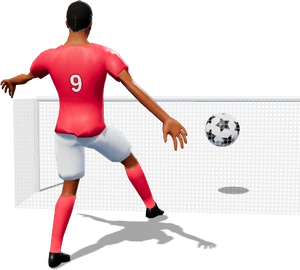
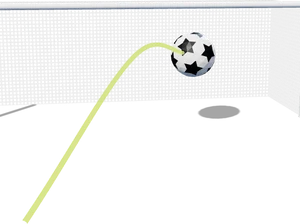
Плашки «Играть» без игроков: мини-поле с фишками (3 на 3, 4 на 4), ворота с мячом (Моменты), карточки (Драфт), тактическая доска (Менеджер), фишки (Тренировки)
Claude-Session: https://claude.ai/code/session_01VpcaxWoBDaJdgiPA1Q4kL3

Changed region(s): [[0.0, 0.0, 1.0, 1.0], [0.72, 0.6875, 0.84, 0.7188], [0.99, 0.4688, 1.0, 0.5312]]

diff --git a/tools/art/modes.html b/tools/art/modes.html
@@ -34,7 +34,9 @@ const KIT = {
   blue: { pattern: 'plain', c1: '#1f5bd8', c2: '#ffffff', shorts: '#ffffff', socks: '#1f5bd8' },
   navy: { pattern: 'sleeves', c1: '#11204f', c2: '#c6ff3d', shorts: '#11204f', socks: '#c6ff3d' },
 };
+let NOMEN = false; // плашки без игроков
 function man(kit, look, pose, x, z, ry, s = 1) {
+  if (NOMEN) return new THREE.Group();
   const p = PlayerKit.make(G, PlayerKit.kit(Object.assign({}, KIT[kit], look)), pose);
   p.scale.multiplyScalar(s); p.position.set(x, 0, z); p.rotation.y = ry;
   p.traverse((m) => { if (m.isMesh) { m.castShadow = true; m.frustumCulled = false; } });
@@ -97,6 +99,36 @@ const SCENES = {
     return { pos: [0.2, 2.0, 5.9], look: [0.1, 0.75, 0], fov: 34 }; },
 };
 // tall — высокая плашка «Играть»: шире угол, все фигуры целиком
+// плашки «Играть» без игроков (3.11): только предметы — мини-поле с фишками, ворота с мячом, доска, карточки, фишки
+function miniPitch(n) { const c = document.createElement('canvas'); c.width = 420; c.height = 600; const g = c.getContext('2d');
+  for (let i = 0; i < 8; i++) { g.fillStyle = i % 2 ? '#2f9a52' : '#36a85b'; g.fillRect(0, i * 75, 420, 75); }
+  g.strokeStyle = '#eafff1'; g.lineWidth = 8; g.strokeRect(16, 16, 388, 568); g.beginPath(); g.moveTo(16, 300); g.lineTo(404, 300); g.stroke(); g.beginPath(); g.arc(210, 300, 54, 0, 7); g.stroke();
+  g.strokeRect(120, 16, 180, 70); g.strokeRect(120, 514, 180, 70);
+  const t = new THREE.CanvasTexture(c); t.encoding = THREE.sRGBEncoding;
+  const m = new THREE.Mesh(new THREE.BoxGeometry(2.1, 0.08, 3.0), [std('#1d6b38'), std('#1d6b38'), new THREE.MeshStandardMaterial({ map: t, roughness: 0.6 }), std('#1d6b38'), std('#1d6b38'), std('#1d6b38')]);
+  m.receiveShadow = true; m.castShadow = true; const grp = new THREE.Group(); grp.add(m);
+  const tok = (x, z, col) => { const k = new THREE.Mesh(new THREE.CylinderGeometry(0.15, 0.15, 0.14, 32), std(col, { metalness: 0.3, roughness: 0.25 })); k.position.set(x, 0.11, z); k.castShadow = true; grp.add(k);
+    const r = new THREE.Mesh(new THREE.TorusGeometry(0.15, 0.025, 8, 32), std('#ffffff')); r.rotation.x = Math.PI / 2; r.position.set(x, 0.18, z); grp.add(r); };
+  const us = n === 3 ? [[0, 1.25], [-0.5, 0.45], [0.45, -0.2]] : [[0, 1.25], [-0.55, 0.6], [0.55, 0.6], [0, -0.15]];
+  const them = n === 3 ? [[0, -1.25], [0.5, -0.5], [-0.4, 0.1]] : [[0, -1.25], [-0.55, -0.6], [0.55, -0.6], [0.1, 0.2]];
+  us.forEach(([x, z]) => tok(x, z, '#2b6cff')); them.forEach(([x, z]) => tok(x, z, '#e3243f'));
+  const b = ballM(0.13); b.position.set(0.25, 0.2, -0.05); grp.add(b); return grp; }
+const PLATE = {
+  three(s) { const p = miniPitch(3); p.rotation.set(0.15, 0.35, 0); s.add(p); return { pos: [0, 3.4, 3.6], look: [0, 0, 0.1], fov: 40 }; },
+  eleven(s) { const p = miniPitch(4); p.rotation.set(0.15, -0.35, 0); s.add(p); return { pos: [0, 3.4, 3.6], look: [0, 0, 0.1], fov: 40 }; },
+  mom(s) { const gl = goalM(0.5); gl.position.set(0, 0, -0.8); gl.rotation.y = Math.PI / 2; s.add(gl);
+    const b = ballM(0.22); b.position.set(0.55, 0.75, -0.55); b.rotation.set(0.4, 0.8, 0.2); s.add(b);
+    const pts = [new THREE.Vector3(-0.9, 0.15, 1.6), new THREE.Vector3(-0.1, 0.95, 0.5), new THREE.Vector3(0.45, 0.78, -0.45)];
+    s.add(new THREE.Mesh(new THREE.TubeGeometry(new THREE.CatmullRomCurve3(pts), 60, 0.018, 8), new THREE.MeshBasicMaterial({ color: L('#c6ff3d'), transparent: true, opacity: 0.85 })));
+    return { pos: [-0.6, 1.5, 4.4], look: [0.1, 0.7, -0.4], fov: 42 }; },
+  mgr(s) { const v = SCENES.mgr(s); s.children.filter((o) => o.type === 'Group' && o.children.some((c) => c.isSkinnedMesh)).forEach((o) => s.remove(o)); return { pos: [0.35, 1.2, 3.6], look: [0.35, 1.1, -0.3], fov: 40 }; },
+  draft(s) { const v = SCENES.draft(s); return { pos: [0, 1.65, 5.2], look: [0, 1.55, -0.6], fov: 34 }; },
+  train(s) { [[-0.6, -0.5], [0.1, -0.1], [-0.3, 0.5], [0.45, 0.85]].forEach(([x, z]) => s.add(cone(x, z, 0.9))); const b = ballM(0.28); b.position.set(0.5, 0.28, 0.2); s.add(b);
+    const pts = []; for (let i = 0; i <= 40; i++) { const t = i / 40, z = -0.9 + t * 2.2; pts.push(new THREE.Vector3(Math.sin(t * Math.PI * 2.2) * 0.45, 0.03, z)); }
+    s.add(new THREE.Mesh(new THREE.TubeGeometry(new THREE.CatmullRomCurve3(pts), 100, 0.035, 8), new THREE.MeshBasicMaterial({ color: L('#ffd23c') })));
+    return { pos: [0, 2.6, 3.4], look: [0, 0.2, 0], fov: 40 }; },
+};
+window.renderPlate = async (id, w, h) => { await ready; const s = rig(w, h); NOMEN = true; let v; try { v = PLATE[id](s); } finally { NOMEN = false; } const cam = new THREE.PerspectiveCamera(v.fov, w / h, 0.1, 100); cam.position.set(...v.pos); cam.lookAt(...v.look); R.render(s, cam); return R.domElement.toDataURL('image/png'); };
 window.renderMode = async (id, w, h, tall) => { await ready; const s = rig(w, h), v = SCENES[id](s); const cam = new THREE.PerspectiveCamera(v.fov * (tall ? 1.45 : 1), w / h, 0.1, 100); cam.position.set(...v.pos); cam.lookAt(...v.look); R.render(s, cam); return R.domElement.toDataURL('image/png'); };
 // ?view=mom — показать сцену в окне (для подбора кадра)
 const VIEW = new URLSearchParams(location.search).get('view');

diff --git a/js/fcm.js b/js/fcm.js
@@ -134,20 +134,20 @@ const FCM = (() => {
   // «Играть» как в FC Mobile (3.11): слева крупно — испытание «Джексона» (карьера), справа лента больших плашек режимов;
   // плашка футбола запускает режим, плашка разделов (Угадай, Викторины…) открывает его игры. Назад — снова сюда.
   const PLATES = [
-    { go: 'data-fm-mode="3"', t: 'Матч 3 на 3', d: 'Против ботов · 2 минуты', img: 'img/fcm/plate-three.webp?v=1', c: '#2b6cff', z: 1.2 },
-    { go: 'data-fm-mode="mom"', t: 'Моменты', d: 'Забей в коротких атаках', img: 'img/fcm/plate-mom.webp?v=1', c: '#c6ff3d', z: 1.35 },
-    { go: 'data-fm-mode="4"', t: 'Матч 4 на 4', d: 'Трое в поле и вратарь', img: 'img/fcm/plate-eleven.webp?v=1', c: '#19d3b0' },
-    { go: 'data-act="xdraft"', t: 'Драфт', d: 'Собери состав и пройди турнир', img: 'img/fcm/plate-draft.webp?v=1', c: '#b98bff' },
-    { go: 'data-fm-mode="mgr"', t: 'Менеджер', d: 'Твой состав играет сам', img: 'img/fcm/plate-mgr.webp?v=1', c: '#ffd23c', z: 1.05 },
+    { go: 'data-fm-mode="3"', t: 'Матч 3 на 3', d: 'Против ботов · 2 минуты', img: 'img/fcm/plate-three.webp?v=2', c: '#2b6cff' },
+    { go: 'data-fm-mode="mom"', t: 'Моменты', d: 'Забей в коротких атаках', img: 'img/fcm/plate-mom.webp?v=2', c: '#c6ff3d' },
+    { go: 'data-fm-mode="4"', t: 'Матч 4 на 4', d: 'Трое в поле и вратарь', img: 'img/fcm/plate-eleven.webp?v=2', c: '#19d3b0' },
+    { go: 'data-act="xdraft"', t: 'Драфт', d: 'Собери состав и пройди турнир', img: 'img/fcm/plate-draft.webp?v=2', c: '#b98bff' },
+    { go: 'data-fm-mode="mgr"', t: 'Менеджер', d: 'Твой состав играет сам', img: 'img/fcm/plate-mgr.webp?v=2', c: '#ffd23c' },
     { go: 'data-fm-sub="modes:guess"', t: 'Угадай', d: 'Wordle, клубы, карьеры', cat: 'guess', c: '#56d4ff' },
     { go: 'data-fm-sub="modes:quiz"', t: 'Викторины', d: 'Дороже, трансферы, счёт', cat: 'quiz', c: '#ff9f43' },
     { go: 'data-fm-sub="modes:cards"', t: 'Карточные', d: 'Козыри, аукцион, ИПК', cat: 'cards', c: '#ff4f66' },
     { go: 'data-fm-sub="modes:duo"', t: 'С другом', d: 'Дуэли и онлайн', cat: 'duo', c: '#7fe0a0' },
     { go: 'data-fm-sub="modes:pz"', t: 'Головоломки', d: '2048, пятнашки, поп-ит', cat: 'pz', c: '#c59bff' },
-    { go: 'data-fm-train="basics"', t: 'Тренировки', d: 'Удары, дриблинг, мишени', img: 'img/fcm/plate-train.webp?v=1', c: '#9fb2cc' },
+    { go: 'data-fm-train="basics"', t: 'Тренировки', d: 'Удары, дриблинг, мишени', img: 'img/fcm/plate-train.webp?v=2', c: '#9fb2cc' },
   ];
   function plate(x) {
-    const art = x.img ? `<img class="fm-pl-img" src="${x.img}" alt="" loading="lazy" style="--z:${x.z || 1.5}">`
+    const art = x.img ? `<img class="fm-pl-img" src="${x.img}" alt="" loading="lazy" style="--z:${x.z || 1}">`
       : `<span class="fm-pl-icons">${shelfGames(x.cat).slice(0, 4).map((g) => { const im = gImg(g.key); return im ? `<img src="${im}" alt="" loading="lazy">` : ''; }).join('')}</span>`;
     const n = x.cat ? shelfGames(x.cat).length : 0;
     return `<button class="fm-plate" ${x.go} style="--pc:${x.c}"><i class="fm-pl-glow"></i>${art}<span class="fm-pl-t"><b>${x.t}</b><small>${x.d}${n ? ` · ${n} игр` : ''}</small></span></button>`;

diff --git a/css/fcm.css b/css/fcm.css
@@ -1133,8 +1133,8 @@
   .fm-plate { display: grid !important; grid-template-rows: minmax(0, 1fr) auto; padding: 0 !important; scroll-snap-align: start; }
   /* картинка режима целиком, игроки стоят на светлом пятне газона (3.11: раньше кадр обрезался — головы и ноги) */
   .fm-plate { --gl: color-mix(in srgb, var(--pc) 30%, transparent); }
-  .fm-plate::before { content: ''; position: absolute; left: 4%; right: 4%; bottom: 56px; height: 34px; border-radius: 50%; background: radial-gradient(closest-side, rgba(120,220,140,.45), rgba(40,140,70,.18) 60%, transparent); pointer-events: none; }
-  .fm-pl-img { position: relative; width: calc(var(--z, 1.5) * 100%); margin-left: calc((1 - var(--z, 1.5)) * 50%); height: 100%; min-height: 0; padding: 4px 0 0; box-sizing: border-box; object-fit: contain; object-position: 50% 100%; filter: drop-shadow(0 8px 10px rgba(0,0,0,.45)); transition: transform .35s cubic-bezier(.2,1.4,.4,1); }
+  .fm-plate::before { content: ''; position: absolute; left: 10%; right: 10%; top: 18%; height: 52%; border-radius: 50%; background: radial-gradient(closest-side, color-mix(in srgb, var(--pc) 32%, transparent), transparent); pointer-events: none; }
+  .fm-pl-img { position: relative; width: calc(var(--z, 1.5) * 100%); margin-left: calc((1 - var(--z, 1.5)) * 50%); height: 100%; min-height: 0; padding: 12px 10px 6px; box-sizing: border-box; object-fit: contain; object-position: 50% 60%; filter: drop-shadow(0 8px 10px rgba(0,0,0,.45)); transition: transform .35s cubic-bezier(.2,1.4,.4,1); }
   .fm-plate:hover .fm-pl-img, .fm-plate.fx-tilt .fm-pl-img { transform: scale(1.05) translateY(-2px); }
   .fm-pl-icons { display: grid; grid-template-columns: repeat(2, 1fr); gap: 8px; place-content: center; padding: 14px; min-height: 0; }
   .fm-pl-icons img { width: 100%; aspect-ratio: 1; max-width: 58px; border-radius: 12px; justify-self: center; box-shadow: 0 6px 12px rgba(0,0,0,.4); transform: rotate(-4deg); }

diff --git a/index.html b/index.html
@@ -813,7 +813,7 @@
 <link rel="stylesheet" href="css/land.css?v=20261029-d1">
 <link rel="stylesheet" href="css/onboard.css?v=20261029-f2">
 <link rel="stylesheet" href="css/market.css?v=20261029-d1">
-<link rel="stylesheet" href="css/fcm.css?v=20261103-h4">
+<link rel="stylesheet" href="css/fcm.css?v=20261103-h5">
 <link rel="stylesheet" href="css/fx.css?v=20261030-p1">
 <script defer src="js/social.js?v=20261015-shop1"></script>
 <script defer src="js/packs.js?v=20261029-b1"></script>
@@ -876,7 +876,7 @@
 <script defer src="js/clubpath.js?v=20261029-c1"></script>
 <script defer src="js/app.js?v=20261029-c1"></script>
 <script defer src="js/onboard.js?v=20261029-f1"></script>
-<script defer src="js/fcm.js?v=20261103-h4"></script>
+<script defer src="js/fcm.js?v=20261103-h5"></script>
 <script defer src="js/fx.js?v=20261103-h1"></script>
 <script>
 /* Автообновление: Telegram держит старую копию игры. При запуске (и при возврате в игру на главной) сверяем

diff --git a/tools/art/render.js b/tools/art/render.js
@@ -79,8 +79,8 @@ h = 240; w = round(im.width * h / im.height); im.resize((w, h), Image.LANCZOS).s
   if (what === 'tall') { // высокие плашки «Играть» (3.11): та же сцена, кадр 3:4 — игроки целиком
     await p.goto('http://localhost:8765/tools/art/modes.html'); await p.waitForTimeout(800);
     const tmp = path.join(ROOT, 'tools/art/.tmp'); fs.mkdirSync(tmp, { recursive: true });
-    for (const id of (process.argv[3] ? process.argv[3].split(',') : ['mom', 'three', 'mgr', 'eleven', 'train'])) {
-      const url = await p.evaluate((id) => window.renderMode(id, 600, 800, true), id);
+    for (const id of (process.argv[3] ? process.argv[3].split(',') : ['mom', 'three', 'mgr', 'eleven', 'train', 'draft'])) {
+      const url = await p.evaluate((id) => window.renderPlate(id, 600, 800), id);
       const png = path.join(tmp, `plate-${id}.png`); fs.writeFileSync(png, Buffer.from(url.split(',')[1], 'base64'));
       execFileSync('python3', ['-I', '-c', `
 import sys
